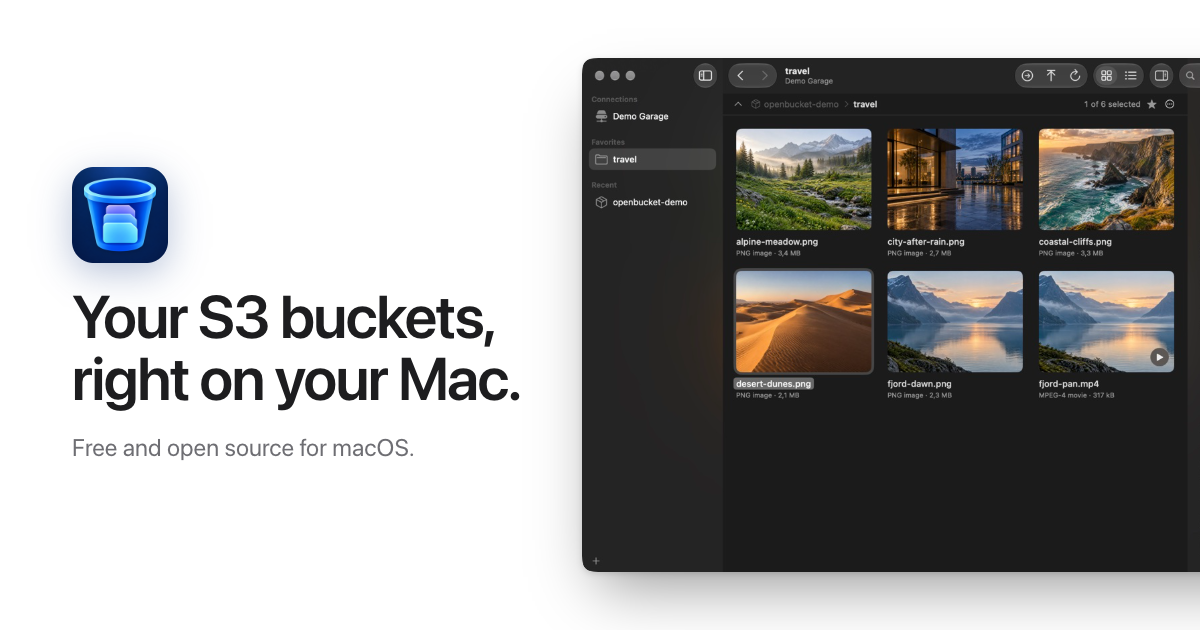
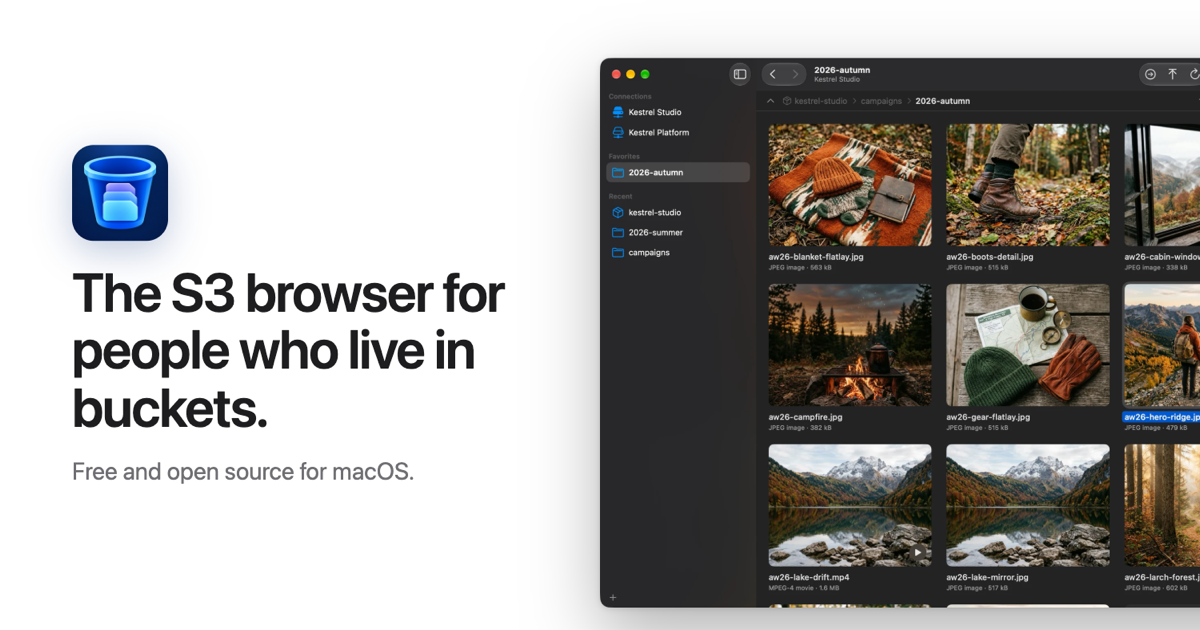
Rewrite the website around the jobs OpenBucket does, with FAQ and structured data
The hero names who it's for and what it does; four job rows show restoring deleted files, expiring links with a QR code, Storage Overview and Compare with Local Folder in real windows; a FAQ answers provider, safety and pricing questions within the documented evidence. SEO: clearer title and description, SoftwareApplication and FAQPage JSON-LD, Twitter tags, robots.txt and sitemap.xml, and a new share image.

diff --git a/site/src/styles/global.css b/site/src/styles/global.css
@@ -297,17 +297,12 @@ h2 {
 }
 
 .section-head h2,
-.split-media h2,
 .plain h2,
 .dark h2,
 .get :is(h1, h2) {
   font-size: clamp(36px, 5vw, 56px);
   line-height: 1.07;
   letter-spacing: -0.022em;
-}
-
-.split-media > h2 {
-  margin-bottom: 0;
 }
 
 .section-head h2 span {
@@ -352,35 +347,97 @@ h2 {
   margin-bottom: 32px;
 }
 
-.split-media {
-  grid-template-columns: minmax(0, 1fr);
-  gap: 56px;
-}
-
-/* Two columns of features, then the Storage Overview window at full width so its text stays legible. */
-.feature-list {
+/* Jobs: text and a real window side by side, alternating sides. */
+.jobs {
   display: grid;
-  grid-template-columns: repeat(2, minmax(0, 1fr));
-  column-gap: 56px;
+  gap: 112px;
+  max-width: var(--measure);
+  margin: 0 auto;
 }
 
-.split-media h2 span {
+.job {
+  display: grid;
+  grid-template-columns: minmax(0, 5fr) minmax(0, 7fr);
+  align-items: center;
+  gap: 64px;
+}
+
+.job:nth-child(even) {
+  grid-template-columns: minmax(0, 7fr) minmax(0, 5fr);
+}
+
+.job:nth-child(even) .job-text {
+  order: 2;
+}
+
+.job-text h3 {
+  margin-bottom: 14px;
+  font-size: clamp(26px, 2.8vw, 34px);
+  font-weight: 600;
+  line-height: 1.12;
+  letter-spacing: -0.02em;
+  text-wrap: balance;
+}
+
+.job-text p {
   color: var(--ink-2);
+  font-size: 19px;
+  line-height: 1.45;
 }
 
-.feature-list > div {
-  padding: 16px 0;
+.jobs-note {
+  margin-top: 80px;
+  text-align: center;
+}
+
+.hero .trust {
+  margin-top: -14px;
+}
+
+.fine a {
+  color: var(--link);
+}
+
+/* FAQ */
+.faq {
+  max-width: 820px;
+  margin: 0 auto;
+  border-bottom: 1px solid var(--hairline);
+}
+
+.faq details {
+  padding: 22px 0;
   border-top: 1px solid var(--hairline);
 }
 
-.feature-list dt {
+.faq summary {
+  display: flex;
+  justify-content: space-between;
+  gap: 24px;
   font-size: 19px;
   font-weight: 600;
   letter-spacing: -0.016em;
+  list-style: none;
+  cursor: pointer;
 }
 
-.feature-list dd {
-  margin-top: 4px;
+.faq summary::-webkit-details-marker {
+  display: none;
+}
+
+.faq summary::after {
+  content: '+';
+  color: var(--ink-2);
+  font-weight: 400;
+}
+
+.faq details[open] summary::after {
+  content: '−';
+}
+
+.faq p {
+  max-width: 44em;
+  margin-top: 10px;
   color: var(--ink-2);
 }
 
@@ -608,9 +665,15 @@ h2 {
     grid-template-columns: repeat(2, minmax(0, 1fr));
   }
 
-  .split {
+  .split,
+  .job,
+  .job:nth-child(even) {
     grid-template-columns: minmax(0, 1fr);
     gap: 48px;
+  }
+
+  .job:nth-child(even) .job-text {
+    order: 0;
   }
 }
 
@@ -645,10 +708,17 @@ h2 {
   }
 
   .facts,
-  .feature-list,
   .trio {
     grid-template-columns: minmax(0, 1fr);
     gap: 36px;
+  }
+
+  .jobs {
+    gap: 72px;
+  }
+
+  .job-text p {
+    font-size: 17px;
   }
 
   .facts {

diff --git a/DESIGN.md b/DESIGN.md
@@ -301,7 +301,7 @@ Apple's neutral ladder with one blue for action, one link blue per ground, and t
 - **Band Grey** (band): alternating feature bands, the status panel, the footer.
 - **Ink** (ink): headlines, body copy, nav links (at 0.8 opacity, 1 on hover), brand name.
 - **Secondary Ink** (ink-2): ledes, fact and feature descriptions, second line of two-tone headlines, captions, fine print, panel label.
-- **Hairline** (hairline): nav bottom border, feature-list and status-row dividers, footer top rule.
+- **Hairline** (hairline): nav bottom border, FAQ and status-row dividers, footer top rule.
 - **Nav Glass** (nav-glass): the sticky nav's translucent white, always paired with its backdrop blur.
 - **Night** (night): the single black security band. **Night Ink** (night-ink) for its headline and titles, **Night Secondary Ink** (night-ink-2) for its lede and trio copy.
 - **Footer Link Grey** (footer-link): footer links, a step darker than the footer's Secondary Ink text.
@@ -325,7 +325,8 @@ Apple's neutral ladder with one blue for action, one link blue per ground, and t
 - **Display** (600, clamp(44px, 7vw, 80px), 1.05, -0.025em): the hero headline only; 404 headline uses Headline.
 - **Headline** (600, clamp(36px, 5vw, 56px), 1.07, -0.022em): every section h2 and the get block. Balanced wrapping. A two-tone variant sets its second line in Secondary Ink ("Not a web console in a window.").
 - **Lede** (400, clamp(19px, 1.6vw, 21px), 1.4): one-sentence subheads under headlines, max 34em, centred, pretty wrapping, Secondary Ink (Night Secondary Ink in the black band).
-- **Title** (600, 19px, -0.016em): fact titles, feature-list terms, trio titles.
+- **Title** (600, 19px, -0.016em): fact titles, FAQ questions, trio titles.
+- **Job title** (600, clamp(26px, 2.8vw, 34px), 1.12, -0.02em): the four job headings, balanced wrapping; their body is 19px Secondary Ink (17px on phones).
 - **Check** (400, 19px, 1.42): the endpoint checks list; drops to 17px on phones.
 - **Large link** (400, 19px): standalone text links with a trailing arrow; 17px inside the status panel.
 - **Body** (400, 17px, 1.47, -0.012em): all running copy.
@@ -345,8 +346,8 @@ A single centred column of full-bleed sections. Content width is the 1080px meas
 
 - **Section rhythm:** bands, plain sections, the black band and the get block pad 120px vertically (80px on phones). The get block starts at 40px so it reads as the close of the section above it. Hero: 72px top (48px on phones), window 46px below the actions (28px on phones), 96px under the window (64px on phones).
 - **Stacks:** centred blocks (hero, black band, open-source block, get block) stack with a 22px gap. Section heads stack at 20px and sit 72px above their grid (48px on phones).
-- **Grids:** facts run 3 columns at 56px × 48px gaps; feature list 2 columns with a 56px column gap; trio 3 columns at 48px; the compatibility split is 1.05fr / 1fr at a 72px gap, vertically centred. The "everything you do" split stacks headline, feature list and the full-width Storage Overview window at 56px so the window's text stays legible.
-- **Breakpoints:** at 1068px the facts grid drops to 2 columns and splits stack at 48px. At 734px the nav links hide (brand and Download pill remain), facts, feature list and trio go to 1 column at 36px, section padding drops to 80px, the status panel tightens, and screenshots swap to phone crops.
+- **Grids:** facts run 3 columns at 56px × 48px gaps; trio 3 columns at 48px; the compatibility split is 1.05fr / 1fr at a 72px gap, vertically centred. Job rows split 5fr text / 7fr window at a 64px gap, alternating sides, 112px apart (72px on phones).
+- **Breakpoints:** at 1068px the facts grid drops to 2 columns, and splits and job rows stack at 48px with the text first. At 734px the nav links hide (brand and Download pill remain), facts and trio go to 1 column at 36px, section padding drops to 80px, the status panel tightens, and screenshots swap to phone crops.
 - **Phone crops:** each wide screenshot is a `<picture>` with a `(max-width: 734px)` source pointing at a native-scale crop of the same real window (the right of the grid view, the treemap half of Storage Overview), so phones see legible UI rather than a shrunken desktop.
 - **Anchors:** smooth scrolling with a 64px scroll padding so section titles clear the sticky nav.
 
@@ -390,7 +391,7 @@ Soft, Apple-standard geometry. Buttons and badges are full pills (999px). The st
 - **Pairing:** next to the primary pill for the secondary path ("View on GitHub"), or alone at the end of a section.
 
 ### Hero
-Centred stack: 112px app icon, Display headline in two lines, Lede, actions row (pill + text link, 18px × 32px gaps), Fine release line ("Version x · macOS 26 or later · Apple silicon and Intel · Signed and notarized"), then the hero window, which starts inside the first viewport and continues below the fold.
+Centred stack: 112px app icon, Display headline in two lines that names the audience ("The S3 browser for people who live in buckets."), Lede naming the services and the read-only default, actions row (pill + text link, 18px × 32px gaps), Fine release line ("Version x · Free and open source · macOS 26 or later · Signed and notarized") and a second Fine line with the live-tested servers, then the hero window, which starts inside the first viewport and continues below the fold.
 
 ### Window figure + caption
 - **Image:** a real screenshot with its own transparent corners and the Window shadow, up to 1100px wide, served as 1x and 2x WebP.
@@ -409,8 +410,11 @@ Single column, 18px apart, 19px copy with an 18px Action Blue check (2.4 stroke)
 - **Badges:** pill, 2px 10px, 12px/600: Tested (green), Implemented (blue), Not yet tested (grey). A badge states exactly what the compatibility document states.
 - **Close:** a 17px text link to the compatibility details, 20px above.
 
-### Feature list
-Two columns of term (Title) + description (Body, Secondary Ink), each row 16px padded under a Hairline top rule; one column on phones.
+### Job rows
+The section after the hero answers "why not the web console?" with four everyday jobs (restore a deleted file, send an expiring link, see what fills a bucket, check a local copy). Each row is a Job title and body beside a real window at its own corners, captured at a compact window size so its text stays legible at 600px; a Fine note under the rows says which servers the windows used. Jobs never name or compare competing apps.
+
+### FAQ
+Band section with a centred Headline and up to 820px of native `<details>` rows: question in Title weight with a +/− marker, answer in Secondary Ink, Hairline between rows. Every answer stays inside the documented evidence and is repeated as `FAQPage` structured data.
 
 ### Dark band trio
 - **Band:** Night ground, centred, 44px shield icon (1.5 stroke) in Night Link Blue, Headline in Night Ink, Lede in Night Secondary Ink.

diff --git a/docs/demo-assets/README.md b/docs/demo-assets/README.md
@@ -43,10 +43,10 @@ ffmpeg -loop 1 -i aw26-lake-mirror.jpg -vf "scale=3840:-2,zoompan=z='1+0.0012*on
 
 The README and website show real windows. To keep them sharp and their corners clean:
 
-1. Run a disposable Garage (any S3 store works) and seed it with `scripts/seed-demo.sh`.
+1. Run a disposable Garage (any S3 store works) and seed it with `scripts/seed-demo.sh`. The website's restore screenshot needs a versioned bucket, which Garage doesn't have: use MinIO with versioning on, upload a file again to give it versions, and delete one or two files.
 2. Add two connections: **Kestrel Studio** (known bucket `kestrel-studio`, Allow changes on) and **Kestrel Platform** (known bucket `kestrel-platform`, read-only). Favorite `campaigns/2026-autumn/`, `backups/postgres/` and `releases/desktop/`.
 3. Run the app in US English so sizes and dates read `2.1 MB` and `Oct 28, 2026`: `defaults write dev.openbucket.app AppleLocale en_US` and `defaults write dev.openbucket.app AppleLanguages -array en-US`. If the Mac's accent color is Graphite, the traffic lights and selections turn grey; give the app the blue accent with `defaults write dev.openbucket.app AppleAccentColor -int 4` and `defaults write dev.openbucket.app AppleAquaColorVariant -int 1`. Delete all four keys afterwards.
-4. Size the main window to 1440×880 points, keep it the active window (colored traffic lights), and capture it on a Retina display with `screencapture -o -l <window-id> shot.png`. `-o` drops the system shadow; the PNG keeps the window's transparent corners.
+4. Size the main window to 1440×880 points, keep it the active window (colored traffic lights), and capture it on a Retina display with `screencapture -o -l <window-id> shot.png`. `-o` drops the system shadow; the PNG keeps the window's transparent corners. The website's job screenshots (`site/src/assets/job-*.png`) are whole windows at a compact size, about 1000×800 points with the sidebar hidden, so their text stays legible at 600px wide.
 5. Save the full windows as PNG in `docs/media/`. **Never convert them to JPEG**: JPEG fills the transparent corners with white, and no CSS radius matches the macOS corner curve. The website turns them into 1x and 2x WebP at build time and keeps the alpha.
 6. Cut the website's crops from those PNGs with ffmpeg, which keeps the alpha:
 
